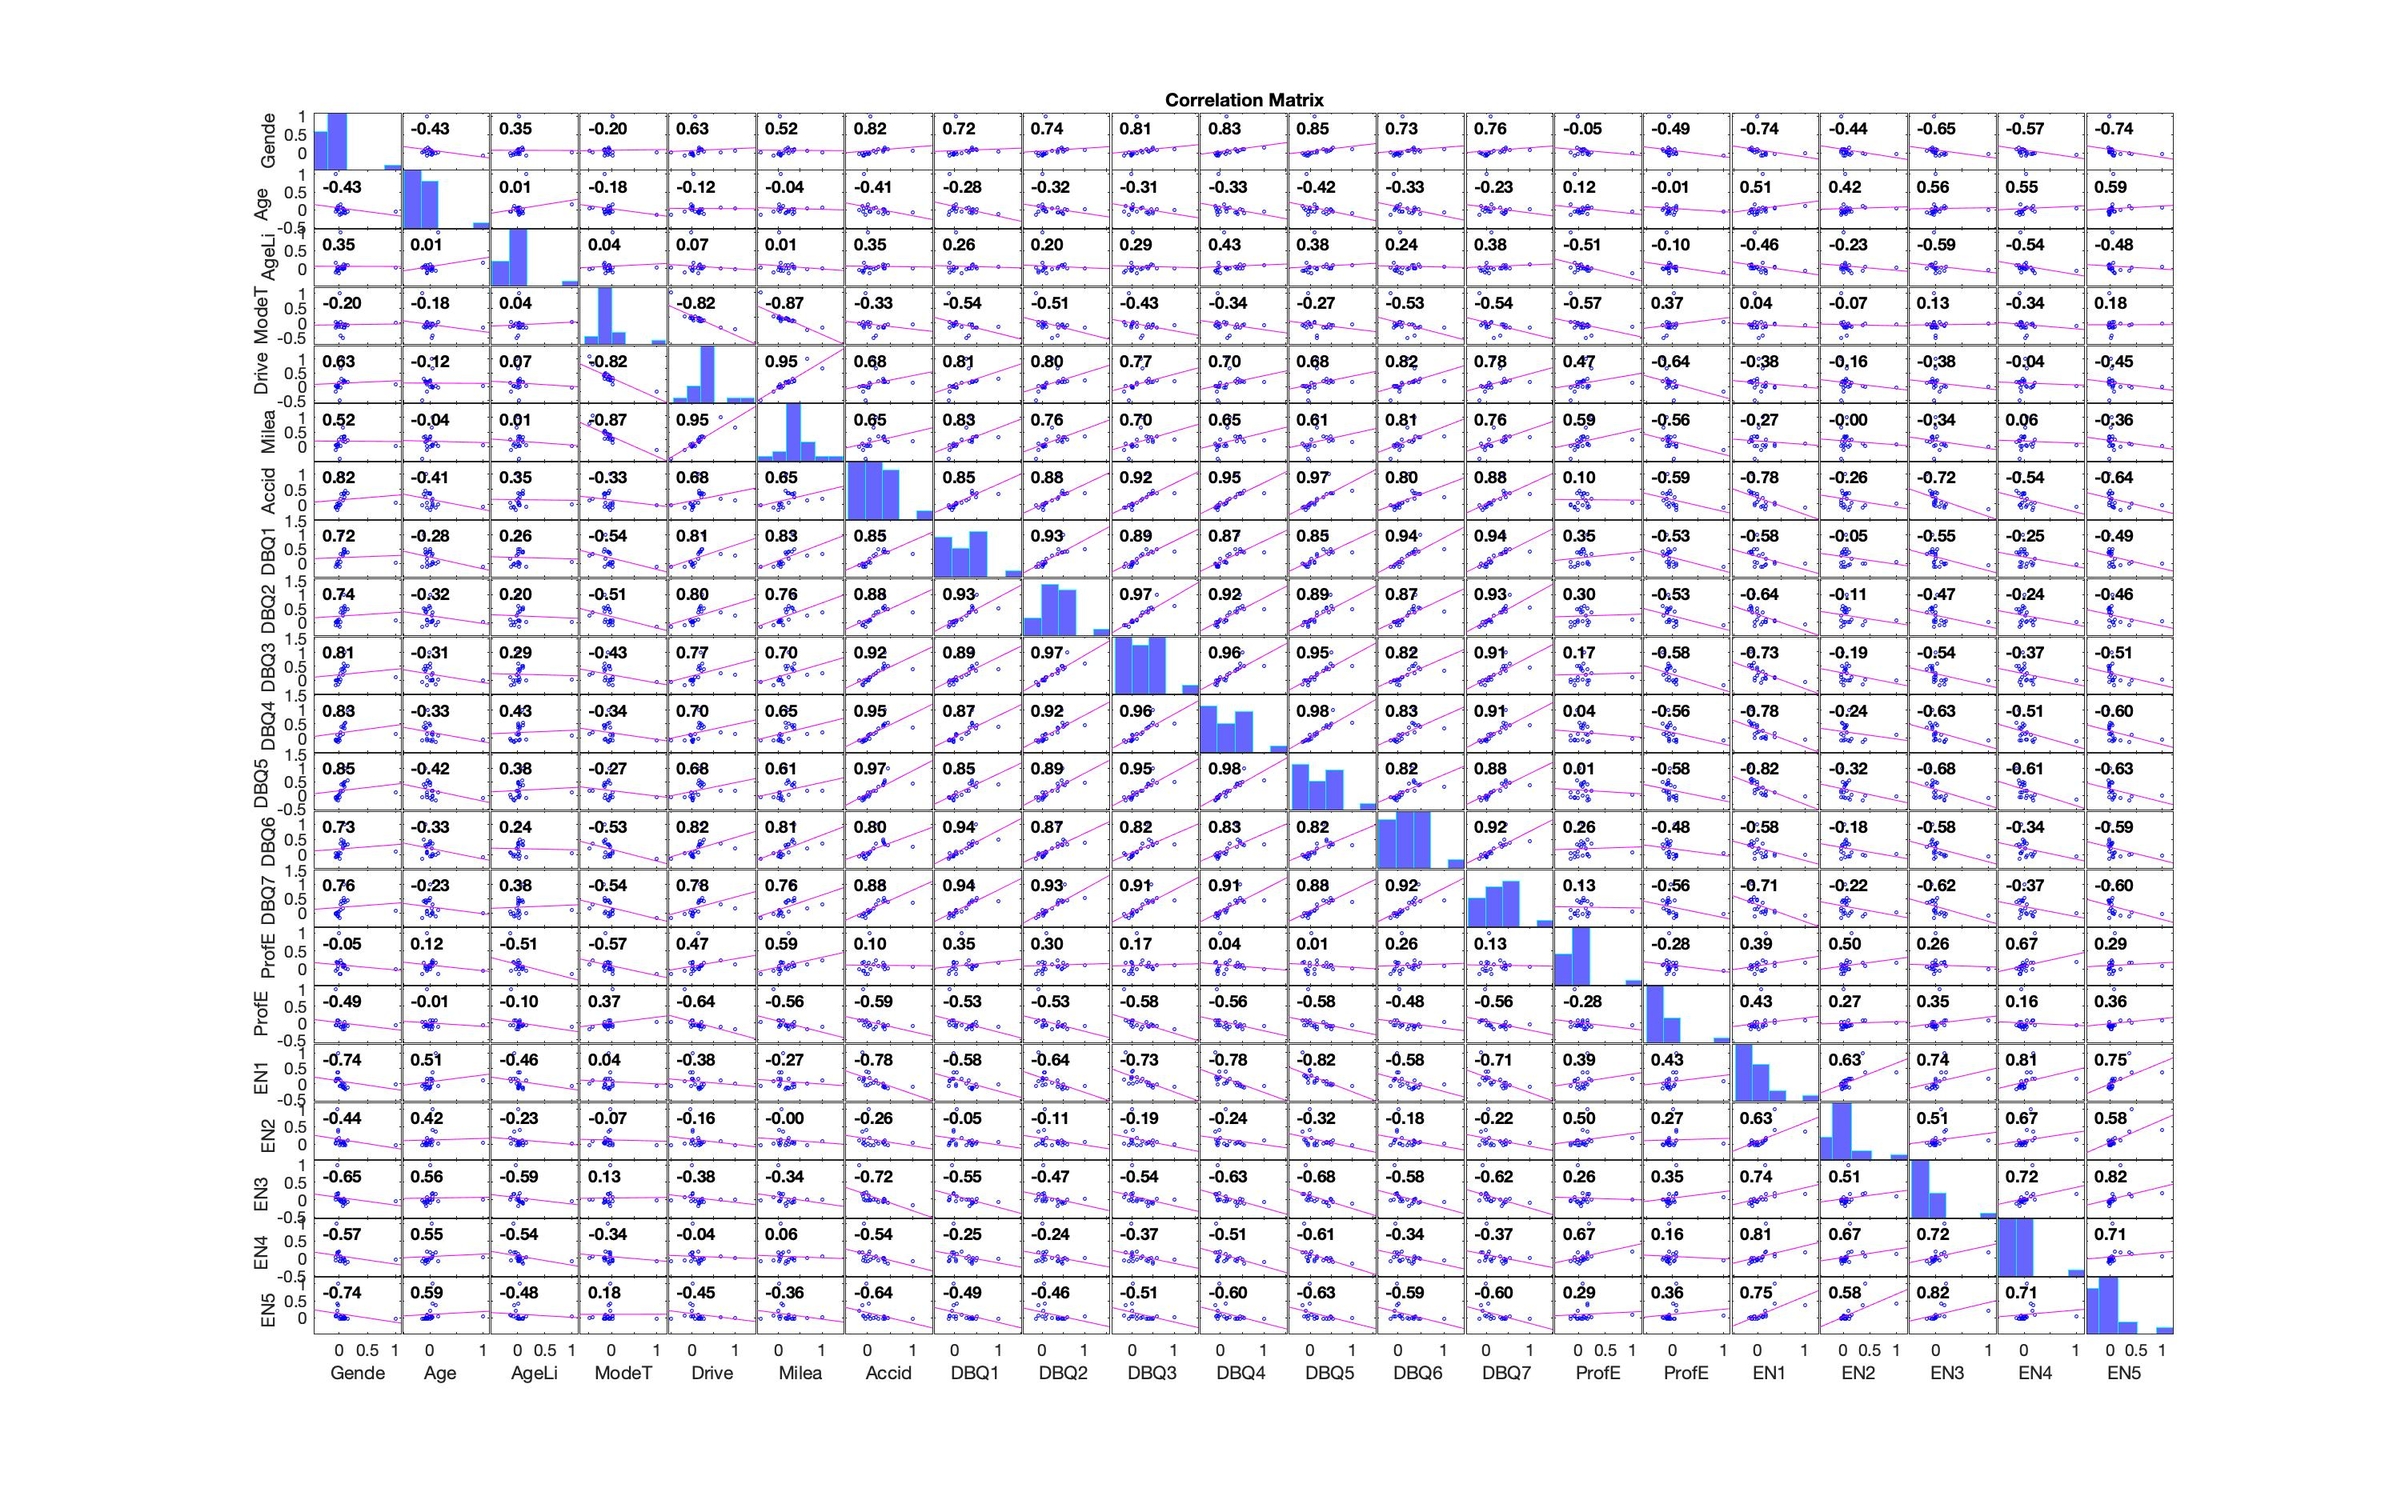
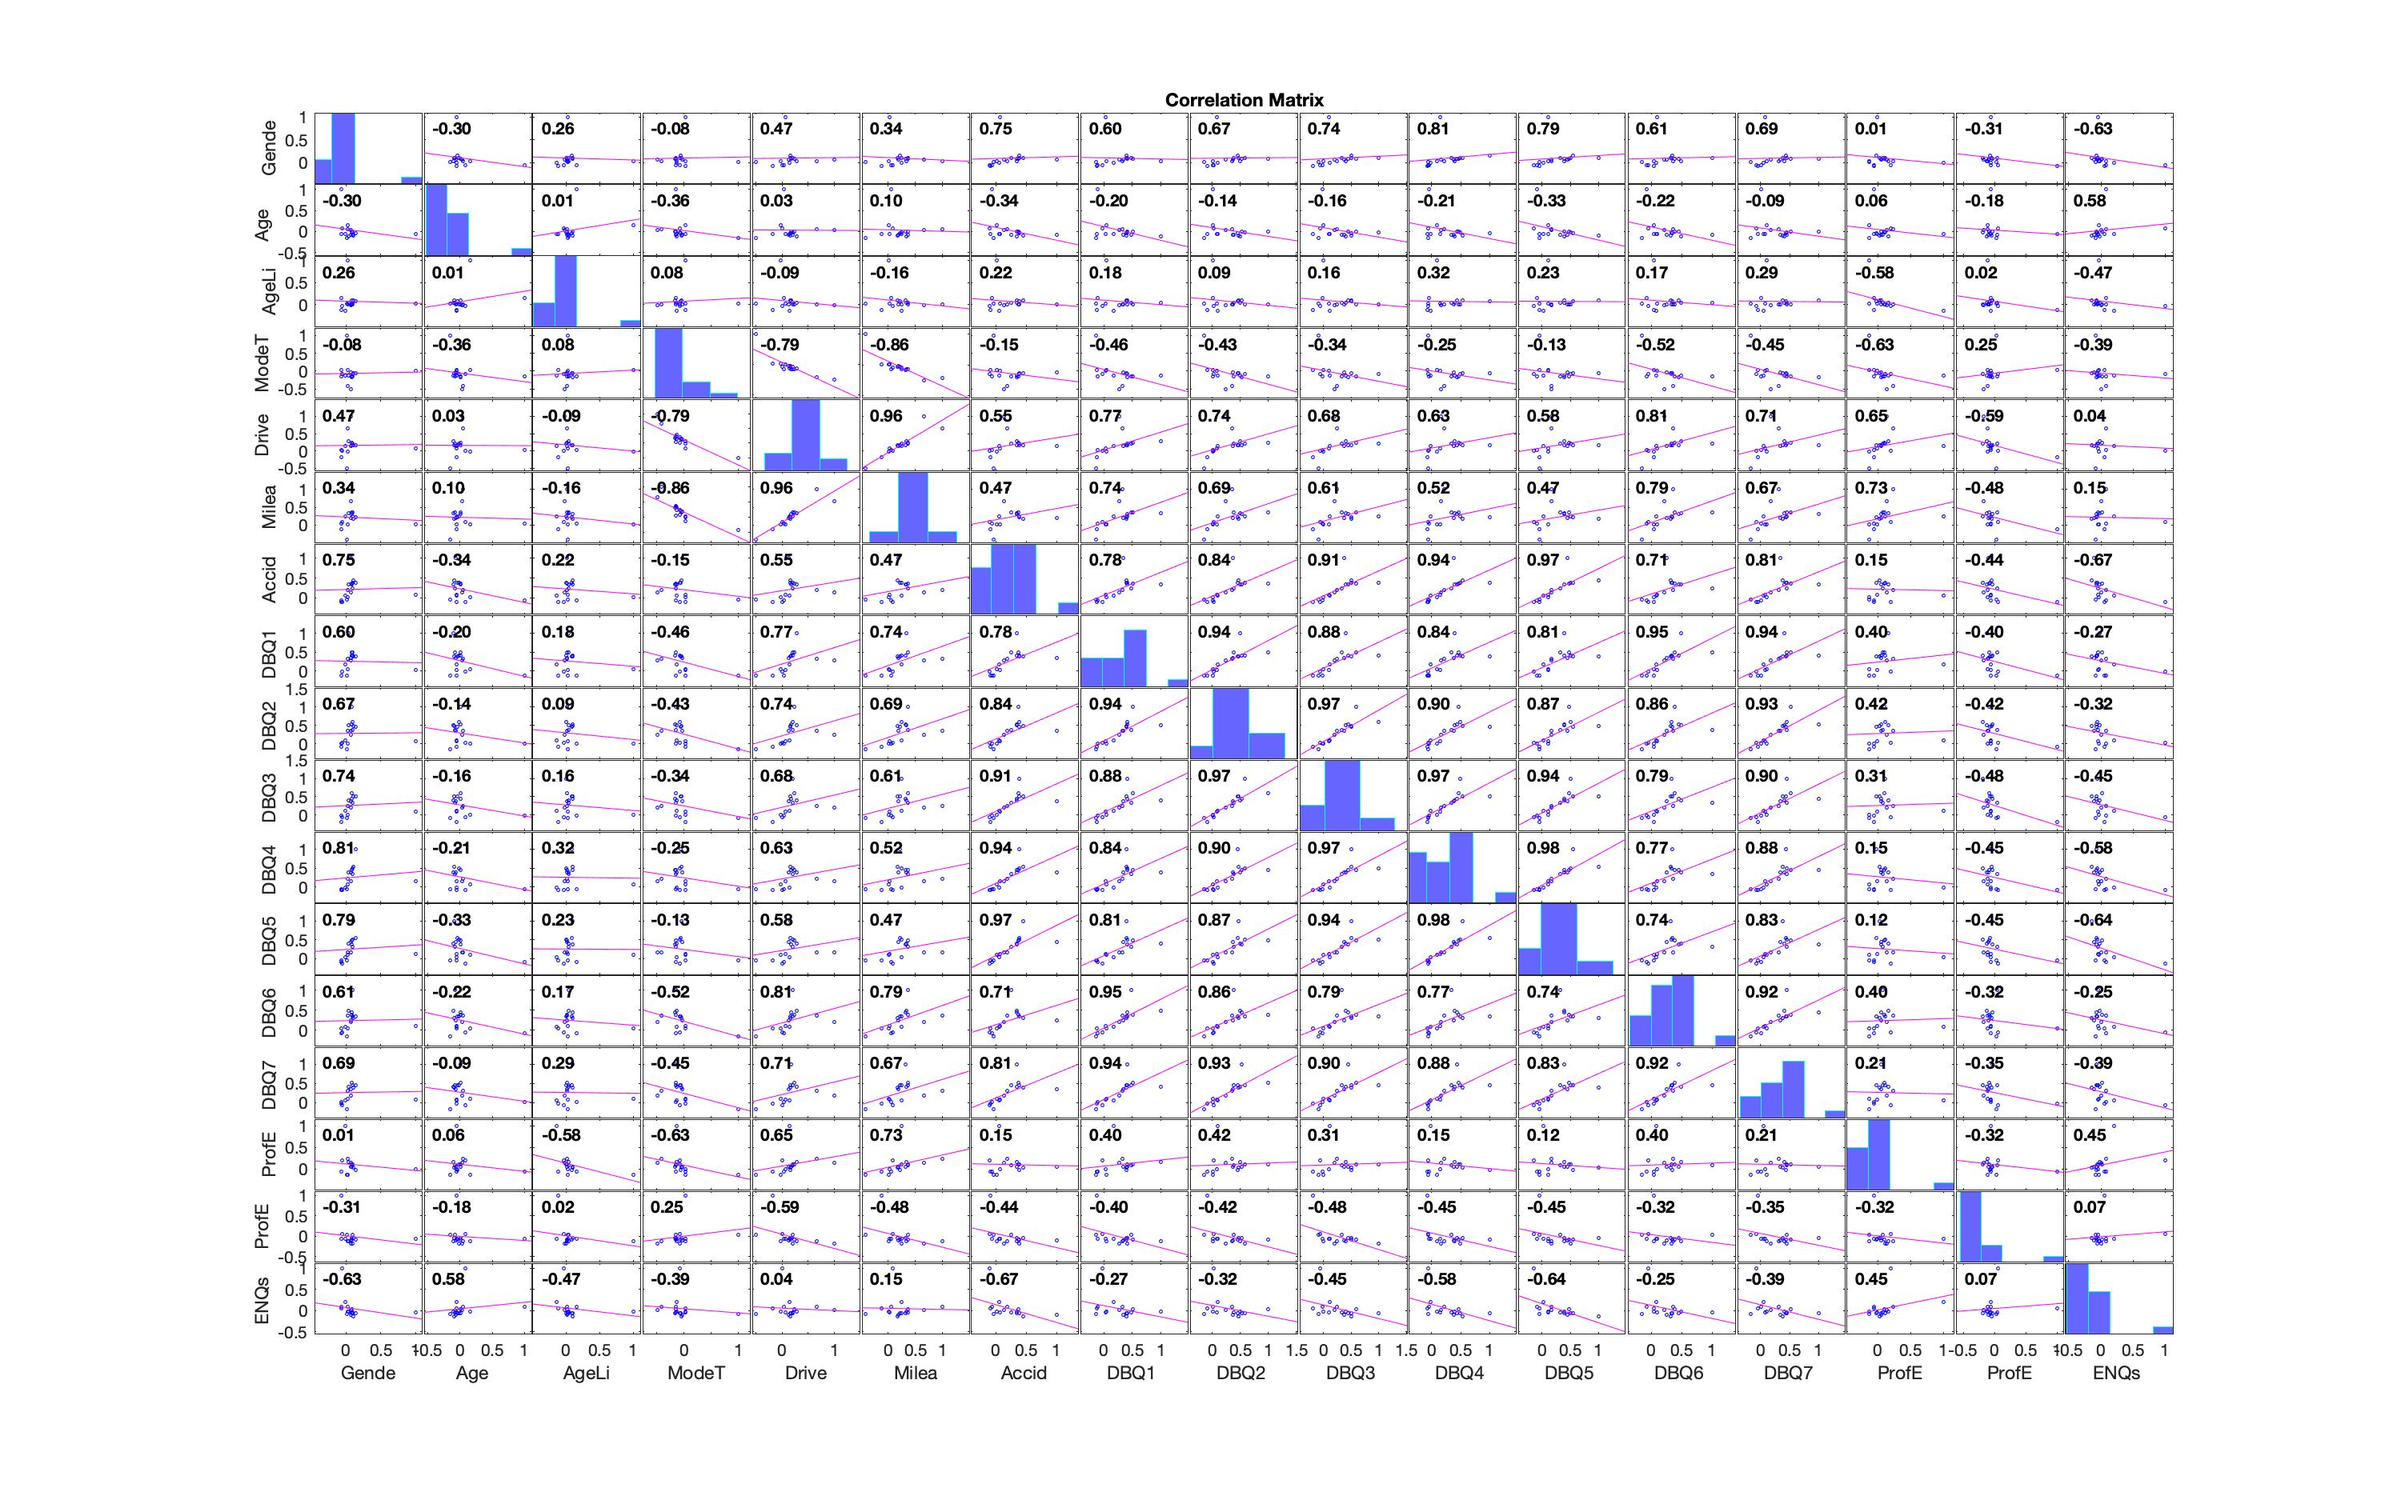
Sum of correct answers in X

Changed region(s): [[0.093, 0.0619, 0.899, 0.928]]

diff --git a/textehmi/analysis/process_experiment.m b/textehmi/analysis/process_experiment.m
@@ -12,7 +12,7 @@ function [X, Country] = process_experiment(appen_file, appen_indices, heroku_fil
     raw_appen = table2cell(raw_appen);  % convert to cell array for ease of checking
     %% Process appen data
     disp([datestr(now, 'HH:MM:SS.FFF') ' - Processing appen data']);
-    X=NaN(size(raw_appen,1),268);
+    X=NaN(size(raw_appen,1),269);
     disp([datestr(now, 'HH:MM:SS.FFF') ' - Number of respondents = ' num2str(size(raw_appen, 1))])
     % Instructions understood
     temp=raw_appen(:,appen_indices(1));X(:,1)=strcmp(temp,'no')+2*strcmp(temp,'yes');
@@ -55,7 +55,9 @@ function [X, Country] = process_experiment(appen_file, appen_indices, heroku_fil
     % English test question 5. Correct: a0. I'm too tired.
     temp=raw_appen(:,appen_indices(23));X(:,22)=1*strcmp(temp,'a0')+0*strcmp(temp,'a1')+0*strcmp(temp,'a2');
     disp([datestr(now, 'HH:MM:SS.FFF') ' - Number of respondents that made mistake in question on English proficiency (Q5) = ' num2str(sum(X(:,22)<=0))])
-    disp([datestr(now, 'HH:MM:SS.FFF') ' - Number of respondents that made mistakes in any questions on English proficiency = ' num2str(sum(X(:,18)+X(:,19)+X(:,20)+X(:,21)+X(:,22)<5))])
+    % Sum of number of correct answers
+    X(:,23) = X(:,18)+X(:,19)+X(:,20)+X(:,21)+X(:,22);
+    disp([datestr(now, 'HH:MM:SS.FFF') ' - Number of respondents that made mistakes in any questions on English proficiency = ' num2str(sum(X(:,23)<5))])
     % Set negative answers as NaN
     X(X<0)=NaN;
     %% Survey time
@@ -67,17 +69,17 @@ function [X, Country] = process_experiment(appen_file, appen_indices, heroku_fil
             starttime=datenum(raw_appen{i,appen_indices(24)});
             endtime=datenum(raw_appen{i,appen_indices(25)});
         end
-        X(i,23)=starttime;
-        X(i,24)=endtime;
-        X(i,25)=round(2400*36*(endtime - starttime));
+        X(i,24)=starttime;
+        X(i,25)=endtime;
+        X(i,26)=round(2400*36*(endtime - starttime));
     end
-    disp([datestr(now, 'HH:MM:SS.FFF') ' - Survey time mean (minutes) - Before filtering = ' num2str(nanmean(X(:,25)/60))]);
-    disp([datestr(now, 'HH:MM:SS.FFF') ' - Survey time median (minutes) - Before filtering = ' num2str(nanmedian(X(:,25)/60))]);
-    disp([datestr(now, 'HH:MM:SS.FFF') ' - Survey time SD (minutes) - Before filtering = ' num2str(nanstd(X(:,25)/60))]);
-    disp([datestr(now, 'HH:MM:SS.FFF') ' - First survey start date - Before filtering = ' datestr(min(X(:,23)))]);
-    disp([datestr(now, 'HH:MM:SS.FFF') ' - Last survey end date - Before filtering = ' datestr(max(X(:,24)))]);
+    disp([datestr(now, 'HH:MM:SS.FFF') ' - Survey time mean (minutes) - Before filtering = ' num2str(nanmean(X(:,26)/60))]);
+    disp([datestr(now, 'HH:MM:SS.FFF') ' - Survey time median (minutes) - Before filtering = ' num2str(nanmedian(X(:,26)/60))]);
+    disp([datestr(now, 'HH:MM:SS.FFF') ' - Survey time SD (minutes) - Before filtering = ' num2str(nanstd(X(:,26)/60))]);
+    disp([datestr(now, 'HH:MM:SS.FFF') ' - First survey start date - Before filtering = ' datestr(min(X(:,24)))]);
+    disp([datestr(now, 'HH:MM:SS.FFF') ' - Last survey end date - Before filtering = ' datestr(max(X(:,25)))]);
     %% Worker id
-    temp=raw_appen(:,appen_indices(26));for i=1:length(temp);try if strcmp(temp(i),'?');X(i,268)=NaN;else;X(i,268)= cell2mat(temp(i));end;catch error;X(i,268)=NaN;end;end % worker id
+    temp=raw_appen(:,appen_indices(26));for i=1:length(temp);try if strcmp(temp(i),'?');X(i,269)=NaN;else;X(i,269)= cell2mat(temp(i));end;catch error;X(i,269)=NaN;end;end % worker id
     %% Process heroku data
     disp([datestr(now, 'HH:MM:SS.FFF') ' - Processing heroku data']);
     counter_code = 0;
@@ -119,18 +121,18 @@ function [X, Country] = process_experiment(appen_file, appen_indices, heroku_fil
         % add data to corresponding row in X
         if ~isempty(row_appen_matched)
             row_appen_matched=row_appen_matched(1);
-            X(row_appen_matched, 26:105)=RT(i1,:);
-            X(row_appen_matched, 106:185)=RP(i1,:);
-            X(row_appen_matched, 186:265)=imageid(i1,1:80);
-            X(row_appen_matched, 266)=browser_lang;  % browser language
-            X(row_appen_matched, 267)=1;  % flag that row was matched
+            X(row_appen_matched, 27:106)=RT(i1,:);
+            X(row_appen_matched, 107:186)=RP(i1,:);
+            X(row_appen_matched, 187:266)=imageid(i1,1:80);
+            X(row_appen_matched, 267)=browser_lang;  % browser language
+            X(row_appen_matched, 268)=1;  % flag that row was matched
         end
     end
     %% Remove participants who did not meet the criteria
     invalid1 = find(X(:,1)==1); % respondents who did not read instructions
     invalid2 = find(X(:,3)<18);  % respondents who indicated they are under 18 years old
-    invalid3 = find(X(:,25)<300);  % respondents who took less than 5 min to complete
-    invalid5 = find(isnan(sum(X(:,106:185),2))); % respondents with no response data / match
+    invalid3 = find(X(:,26)<300);  % respondents who took less than 5 min to complete
+    invalid5 = find(isnan(sum(X(:,107:186),2))); % respondents with no response data / match
     %% Find rows with identical IP addresses
     y = NaN(size(X(:,1)));
     IPCF_1=NaN(size(raw_appen,1),1);
@@ -171,13 +173,13 @@ function [X, Country] = process_experiment(appen_file, appen_indices, heroku_fil
     disp([datestr(now, 'HH:MM:SS.FFF') ' - Age, mean = ' num2str(nanmean(X(:,3)))])
     disp([datestr(now, 'HH:MM:SS.FFF') ' - Age, sd = ' num2str(nanstd(X(:,3)))])
     %% Language
-    disp([datestr(now, 'HH:MM:SS.FFF') ' - Browser language set to Spanish = ' num2str(sum(X(:,266)))])
+    disp([datestr(now, 'HH:MM:SS.FFF') ' - Browser language set to Spanish = ' num2str(sum(X(:,267)))])
     %% Survey time
-    disp([datestr(now, 'HH:MM:SS.FFF') ' - Survey time mean (minutes) - After filtering = ' num2str(nanmean(X(:,25)/60))]);
-    disp([datestr(now, 'HH:MM:SS.FFF') ' - Survey time median (minutes) - After filtering = ' num2str(nanmedian(X(:,25)/60))]);
-    disp([datestr(now, 'HH:MM:SS.FFF') ' - Survey time SD (minutes) - After filtering = ' num2str(nanstd(X(:,25)/60))]);
-    disp([datestr(now, 'HH:MM:SS.FFF') ' - First survey start date - After filtering = ' datestr(min(X(:,23)))]);
-    disp([datestr(now, 'HH:MM:SS.FFF') ' - Last survey end date - After filtering = ' datestr(max(X(:,24)))]);
+    disp([datestr(now, 'HH:MM:SS.FFF') ' - Survey time mean (minutes) - After filtering = ' num2str(nanmean(X(:,26)/60))]);
+    disp([datestr(now, 'HH:MM:SS.FFF') ' - Survey time median (minutes) - After filtering = ' num2str(nanmedian(X(:,26)/60))]);
+    disp([datestr(now, 'HH:MM:SS.FFF') ' - Survey time SD (minutes) - After filtering = ' num2str(nanstd(X(:,26)/60))]);
+    disp([datestr(now, 'HH:MM:SS.FFF') ' - First survey start date - After filtering = ' datestr(min(X(:,24)))]);
+    disp([datestr(now, 'HH:MM:SS.FFF') ' - Last survey end date - After filtering = ' datestr(max(X(:,25)))]);
     %% Most common countries (after filtering)
     [~, ~, ub] = unique(Country);
     test2counts = histcounts(ub, 'BinMethod','integers');

diff --git a/textehmi/analysis/analysis.m b/textehmi/analysis/analysis.m
@@ -61,10 +61,10 @@ mapping = readtable(config.mapping);
 %% ************************************************************************
 opengl hardware
 %% Prepare data
-RT = X(:, 26:105);       % amount of time used to press the key
-RP = X(:, 106:185);      % response from the slider
-imageid = X(:,186:265);  % image ids as shown
-lang_es = X(:,266);      % language (1=Spanish, 0=not Spanish)
+RT = X(:, 27:106);       % amount of time used to press the key
+RP = X(:, 107:186);      % response from the slider
+imageid = X(:,187:266);  % image ids as shown
+lang_es = X(:,267);      % language (1=Spanish, 0=not Spanish)
 eHMI_text=mapping(:,2);  % labels with eHMIs
 % Order based on image number
 [RPo,RTo]=deal(NaN(size(RP,1),N_STIMULI));
@@ -406,8 +406,11 @@ if config.save_figures
 end
 
 %% Correlation matrix and plot
-CMATR = X(:,2:22);  % fetch relevant columns from X for correlation matrix 
+% fetch relevant columns from X for correlation matrix 
+CMATR = X(:,[2:17, 23]);
+% compute correlations
 [c_CMATR, p_CMATR] = corr(CMATR, 'type', 'spearman', 'rows', 'pairwise');
+% labels for output
 labels = {'Gender', ...
           'Age ', ...
           'AgeLicense', ...
@@ -424,17 +427,13 @@ labels = {'Gender', ...
           'DBQ7', ...
           'ProfEN', ...
           'ProfES', ...
-          'EN1', ...
-          'EN2', ...
-          'EN3', ...
-          'EN4', ...
-          'EN5'};
-% output correlation matrix
+          'ENQs'};
+% output of correlation matrix
 printmat(round(c_CMATR*100)/100, ...
          'Spearman correlation matrix', ...
          char(strjoin(labels)), ...
          char(strjoin(labels)))
-% output correlation plot
+% output of correlation plot
 [R,PValue] = corrplot(c_CMATR, ...
                       'type', 'spearman', ...
                       'rows', 'pairwise', ...
